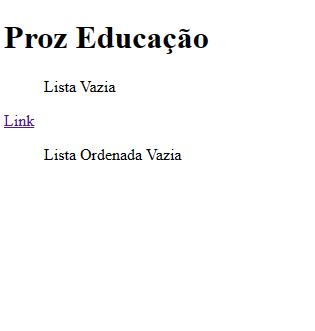
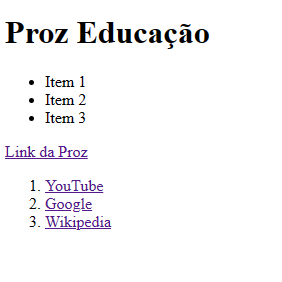
Tags Vazias adicionado

diff --git a/tags-vazias/script.js b/tags-vazias/script.js
@@ -3,6 +3,17 @@ const ul = document.querySelector('ul');
 const a = document.querySelector('a');
 const ol = document.querySelector('#lista-ordenada');
 titulo.innerText = 'Proz Educação'
-ul.innerText = 'Lista Vazia'
-a.innerText = 'Link'
-ol.innerText = 'Lista Ordenada Vazia'
+ul.innerHTML = 
+`
+<li>Item 1</li>
+<li>Item 2</li>
+<li>Item 3</li>
+`
+
+a.innerText = 'Link da Proz'
+ol.innerHTML =
+`
+<li><a href="https://www.youtube.com/?gl=BR">YouTube</a></li>
+<li><a href="https://www.google.com.br/">Google</a></li>
+<li><a href="https://pt.wikipedia.org/wiki/Wikip%C3%A9dia:P%C3%A1gina_principal">Wikipedia</a></li>
+`
